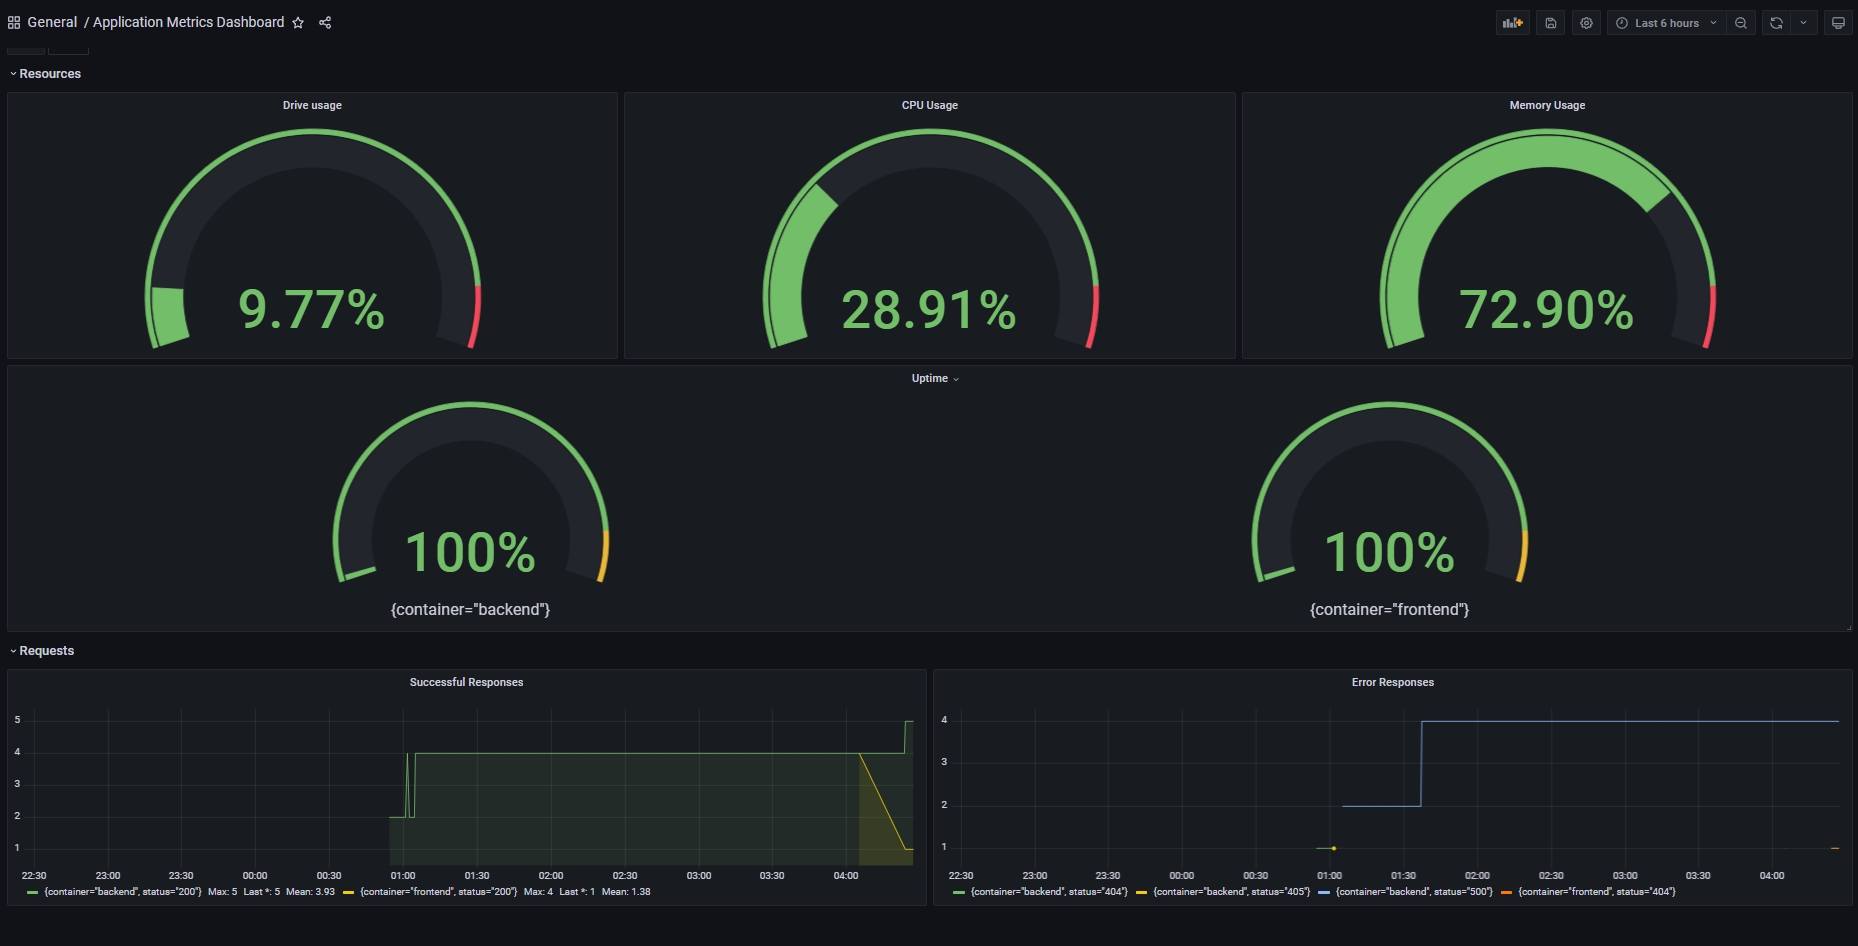
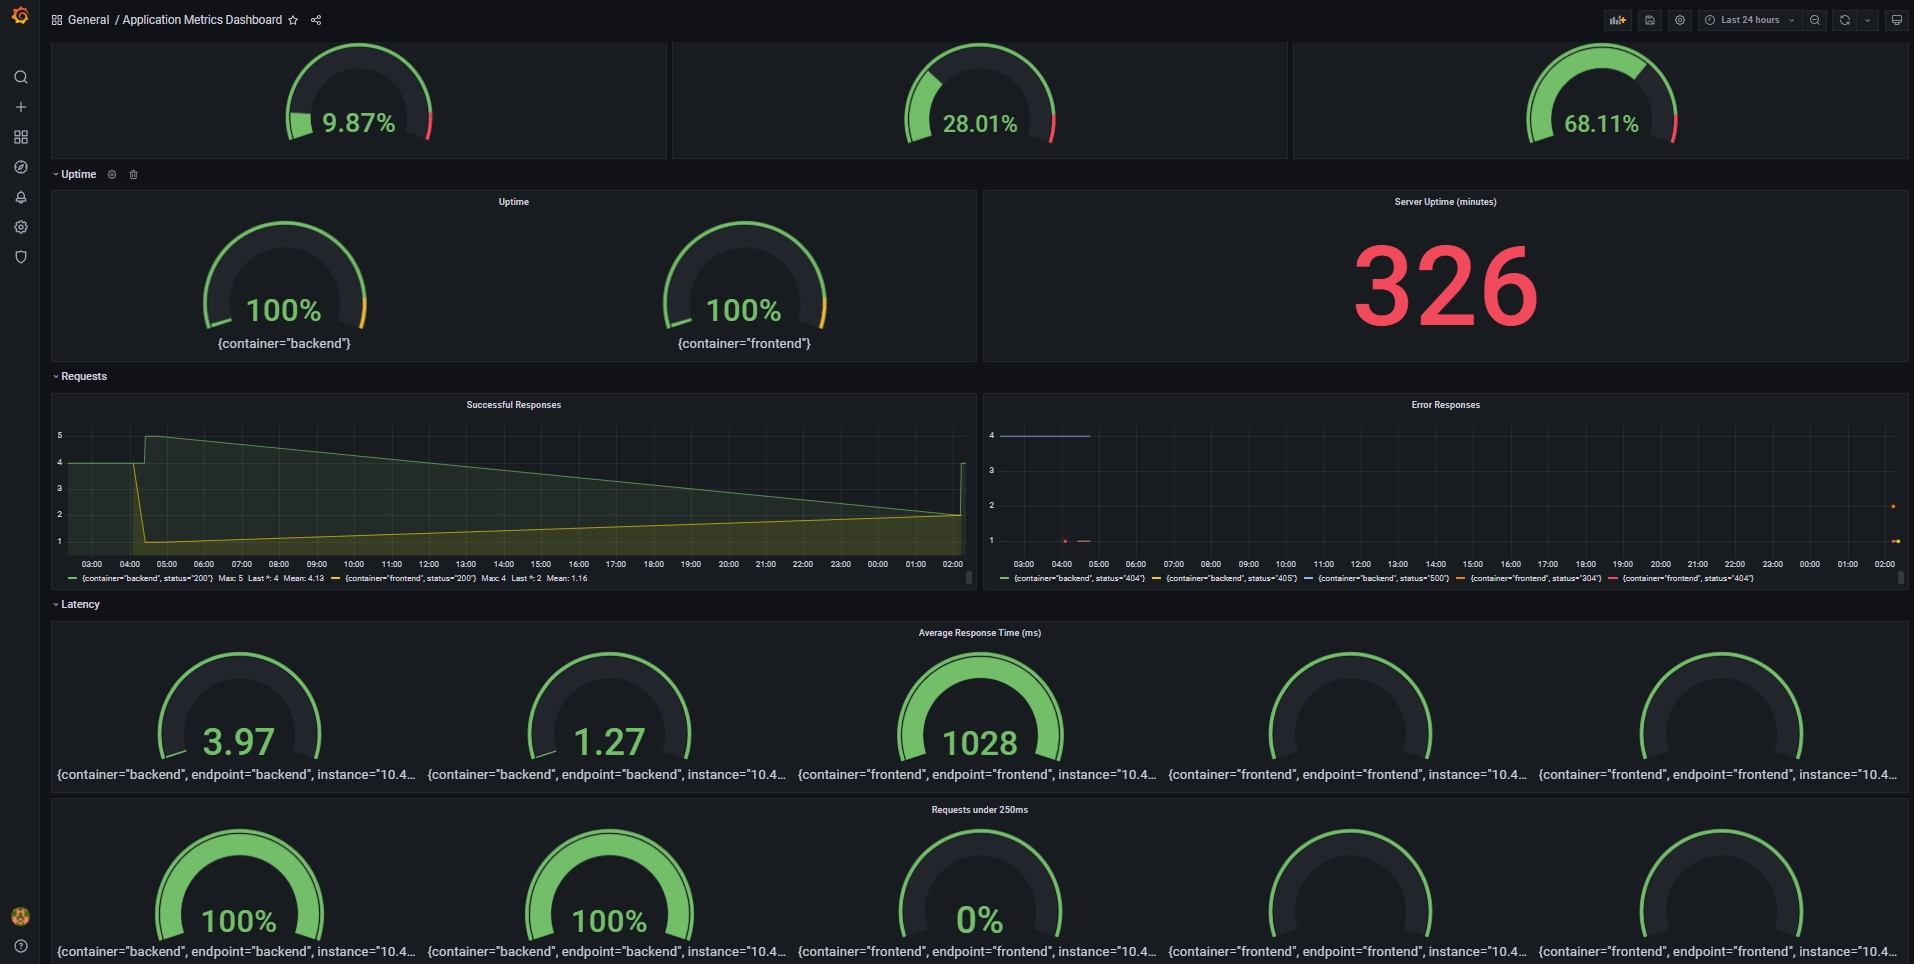
Fixes according to feedback

diff --git a/README.md b/README.md
@@ -19,9 +19,13 @@
 ## Describe SLO/SLI
 *TODO:* Describe, in your own words, what the SLIs are, based on an SLO of *monthly uptime* and *request response time*.
 
-The most well-known SLIs for the above SLOs would be:
-1. 98% website uptime per month
-2. 90.5% of requests to backend service would respond in less than 200ms per month
+Suppose we are a moving software company providing saas solutions to customers and our SLO is:
+We guarantee 99% software uptime every month and 90% of monthly requests in less than 200ms.
+
+To meet that objective we will measure SLIs for example at the end of one month:
+- At the end of January, we had a monthly CRM uptime of 100% so we exceeded our SLO here
+- 90.5% of January requests to backend service responded in less than 200ms
+Based on the numbers we got, we met the SLO we had.
 
 ## Creating SLI metrics.
 *TODO:* It is important to know why we want to measure certain metrics for our customer. Describe in detail 5 metrics to measure these SLIs. 
@@ -66,11 +70,12 @@ Description: Star endpoint is accepting a post request but it is unable to conne
 
 
 ## Creating SLIs and SLOs
-*TODO:* We want to create an SLO guaranteeing that our application has a 99.95% uptime per month. Name three SLIs that you would use to measure the success of this SLO.
+*TODO:* We want to create an SLO guaranteeing that our application has a 99.95% uptime per month. Name four SLIs that you would use to measure the success of this SLO.
 
-1. Application uptime of 99.95%
-2. More than 99% requests should be successful and error free
-3. The server resources should not exceed 90% utilization
+1. Application uptime of 99.95% per month
+2. More than 99% of monthly requests should be successful and error free
+3. The server resources should not exceed 90% utilization per month
+4. The response time of 90% of monthly requests should not exceed 1500ms
 
 ## Building KPIs for our plan
 *TODO*: Now that we have our SLIs and SLOs, create KPIs to accurately measure these metrics. We will make a dashboard for this, but first write them down here.
@@ -81,6 +86,9 @@ Description: Star endpoint is accepting a post request but it is unable to conne
 - Successful responses per month > 99.90% of requests
 - Error responses per month < 0.1% of requests
 - Deployment Uptime > 99.95%
+- Server Uptime
+- Average Response Time < 250ms
+- Percentage of requests with latency of less than 250ms > 90%
 
 
 ## Final Dashboard
@@ -93,3 +101,6 @@ Description: Star endpoint is accepting a post request but it is unable to conne
 - Successful Responses - total number of successful requests per month by containers. 
 - Error Responses - total number of error requests per month by containers and statuses.
 - Uptime - uptime of the backend and frontend services.
+- Server Uptime - how many minutes passed since the server was booted up.
+- Average Response Time - average response time in ms measured over 1 hour intervals for successful requests. Shown per path.
+- Requests under 250ms - percentage of successful requests finished within 250ms. Shown per path.
